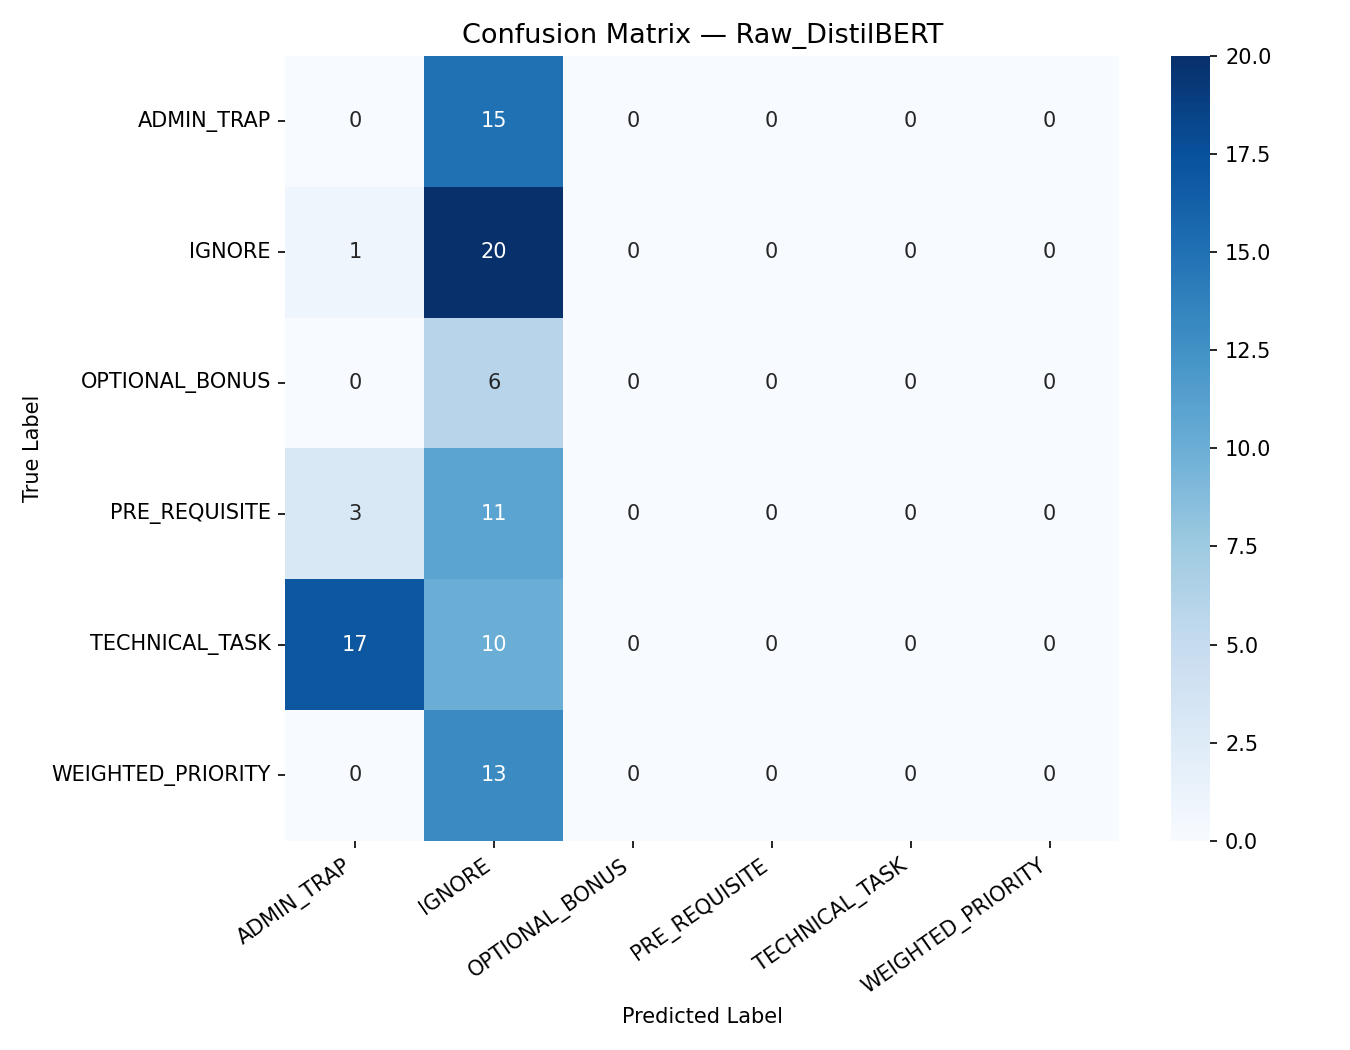
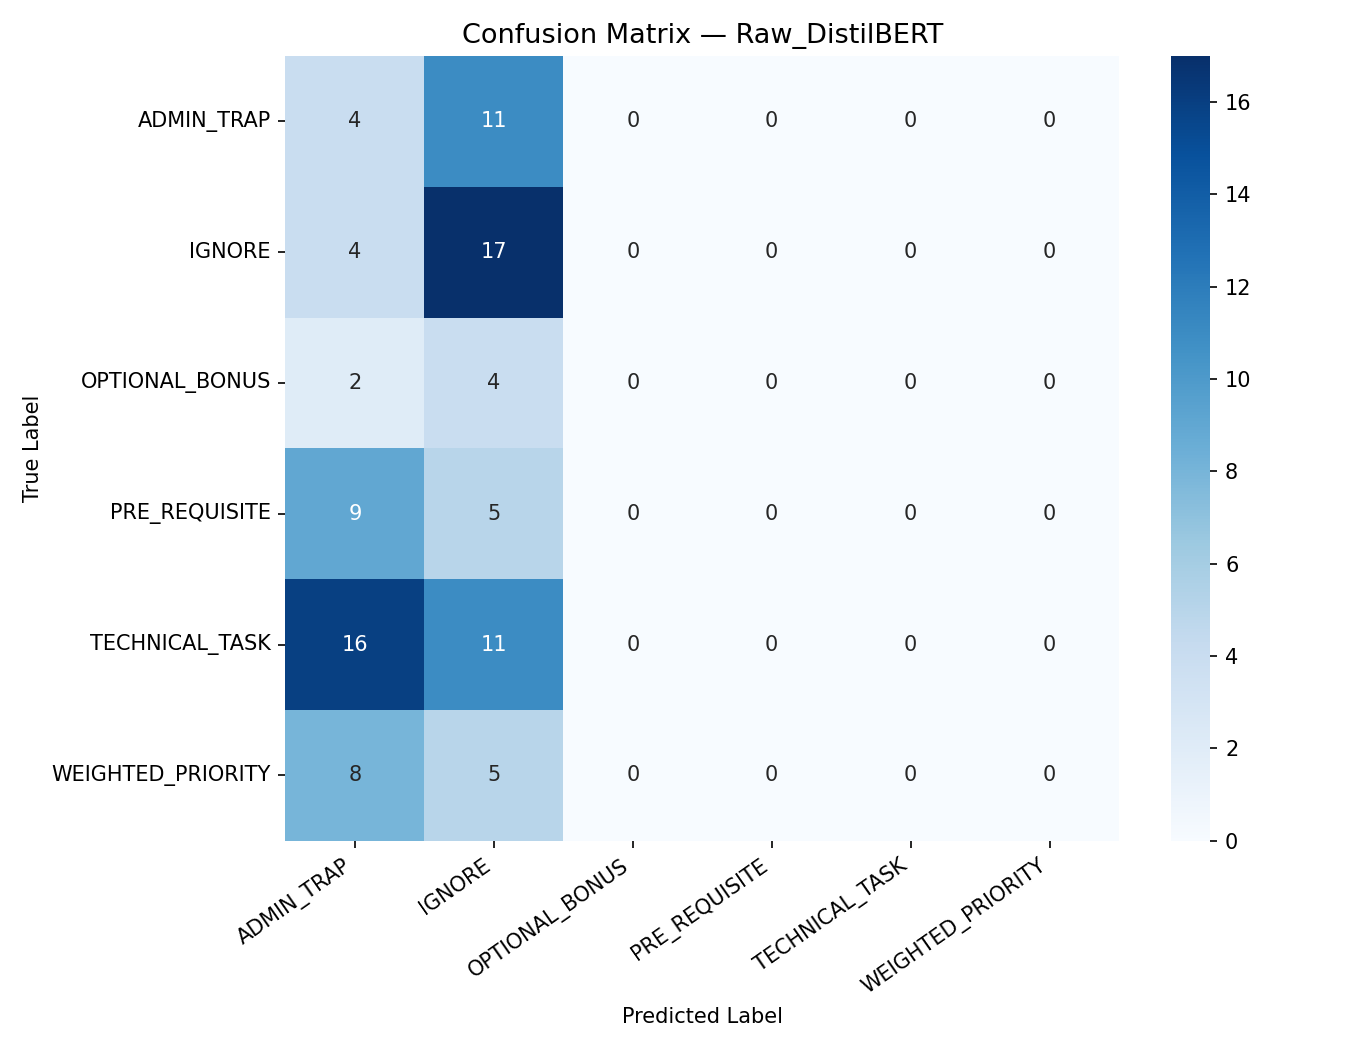
compared first ever trained model vs raw model vs final tuned model
- graphs and output metrics are under in evaluations/eval_results/**

diff --git a/scripts/evaluations/evaluate.py b/scripts/evaluations/evaluate.py
@@ -139,22 +139,24 @@ def plot_confusion_matrix(true_labels, predicted, model_name):
     print(f"Confusion matrix saved: {path}")
 
 
-def plot_comparison(raw_metrics, tuned_metrics):
+def plot_comparison(raw_model, alpha_model, beta_model):
     metrics = ["accuracy", "precision", "recall", "f1"]
     labels = ["Accuracy", "Precision", "Recall", "F1"]
     x = np.arange(len(metrics))
     width = 0.35
 
-    raw_vals = [raw_metrics[m] for m in metrics]
-    tuned_vals = [tuned_metrics[m] for m in metrics]
+    raw_vals = [raw_model[m] for m in metrics]
+    alpha_vals = [alpha_model[m] for m in metrics]
+    beta_vals = [beta_model[m] for m in metrics]
 
     fig, ax = plt.subplots(figsize=(9, 5))
     bars1 = ax.bar(
         x - width / 2, raw_vals, width, label="Raw DistilBERT", color="#ef4444"
     )
     bars2 = ax.bar(
-        x + width / 2, tuned_vals, width, label="Fine-tuned (Ours)", color="#22c55e"
+        x + width / 2, alpha_vals, width, label="Fine-tuned (Ours)", color="#22c55e"
     )
+    bars3 = ax.bar(x, beta_vals, width, label="Initial Fine-tuned", color="#f59e0b")
 
     ax.set_ylim(0, 1.15)
     ax.set_xticks(x)
@@ -163,7 +165,7 @@ def plot_comparison(raw_metrics, tuned_metrics):
     ax.set_title("Raw DistilBERT vs Fine-tuned Model")
     ax.legend()
 
-    for bar in bars1 + bars2:
+    for bar in bars1 + bars2 + bars3:
         h = bar.get_height()
         ax.text(
             bar.get_x() + bar.get_width() / 2,
@@ -219,16 +221,24 @@ def plot_confidence_distribution(tuned_metrics, true_labels):
 # ── Main ──────────────────────────────────────────────────────────────────────
 
 if __name__ == "__main__":
-    raw_metrics = evaluate_model(
+    raw_model = evaluate_model(
         "distilbert-base-uncased", "Raw_DistilBERT", texts, true_labels
     )
-    plot_confusion_matrix(true_labels, raw_metrics["predicted"], "Raw_DistilBERT")
+    plot_confusion_matrix(true_labels, raw_model["predicted"], "Raw_DistilBERT")
 
-    tuned_metrics = evaluate_model(TUNED_MODEL, "Fine_Tuned", texts, true_labels)
-    plot_confusion_matrix(true_labels, tuned_metrics["predicted"], "Fine_Tuned")
+    beta_model = evaluate_model(
+        "../../final_requirement_model", "beta_model", texts, true_labels
+    )
 
-    plot_comparison(raw_metrics, tuned_metrics)
-    plot_confidence_distribution(tuned_metrics, true_labels)
+    plot_confusion_matrix(true_labels, beta_model["predicted"], "beta_model")
+
+    alpha_model = evaluate_model(TUNED_MODEL, "alpha_model", texts, true_labels)
+
+    plot_confusion_matrix(true_labels, alpha_model["predicted"], "alpha_model")
+
+    plot_comparison(raw_model, alpha_model, beta_model)
+    plot_confidence_distribution(alpha_model, true_labels)
+    plot_confidence_distribution(beta_model, true_labels)
 
     print("\n" + "=" * 60)
     print("SUMMARY TABLE (copy this into your paper)")
@@ -238,8 +248,15 @@ if __name__ == "__main__":
     )
     print("-" * 60)
     for metric in ["accuracy", "precision", "recall", "f1"]:
-        raw = raw_metrics[metric]
-        tuned = tuned_metrics[metric]
-        diff = tuned - raw
-        print(f"{metric.capitalize():<15} {raw:>15.4f} {tuned:>15.4f} {diff:>+15.4f}")
+        raw = raw_model[metric]
+        alpha = alpha_model[metric]
+        beta = beta_model[metric]
+        alpha_diff = alpha - raw
+        beta_diff = beta - raw
+        print(
+            f"{metric.capitalize():<15} Raw: {raw:>15.4f} Alpha: {alpha:>15.4f} {alpha_diff:>+15.4f}"
+        )
+        print(
+            f"{metric.capitalize():<15} Raw: {raw:>15.4f} Beta: {beta:>15.4f} {beta_diff:>+15.4f}"
+        )
     print("=" * 60)
